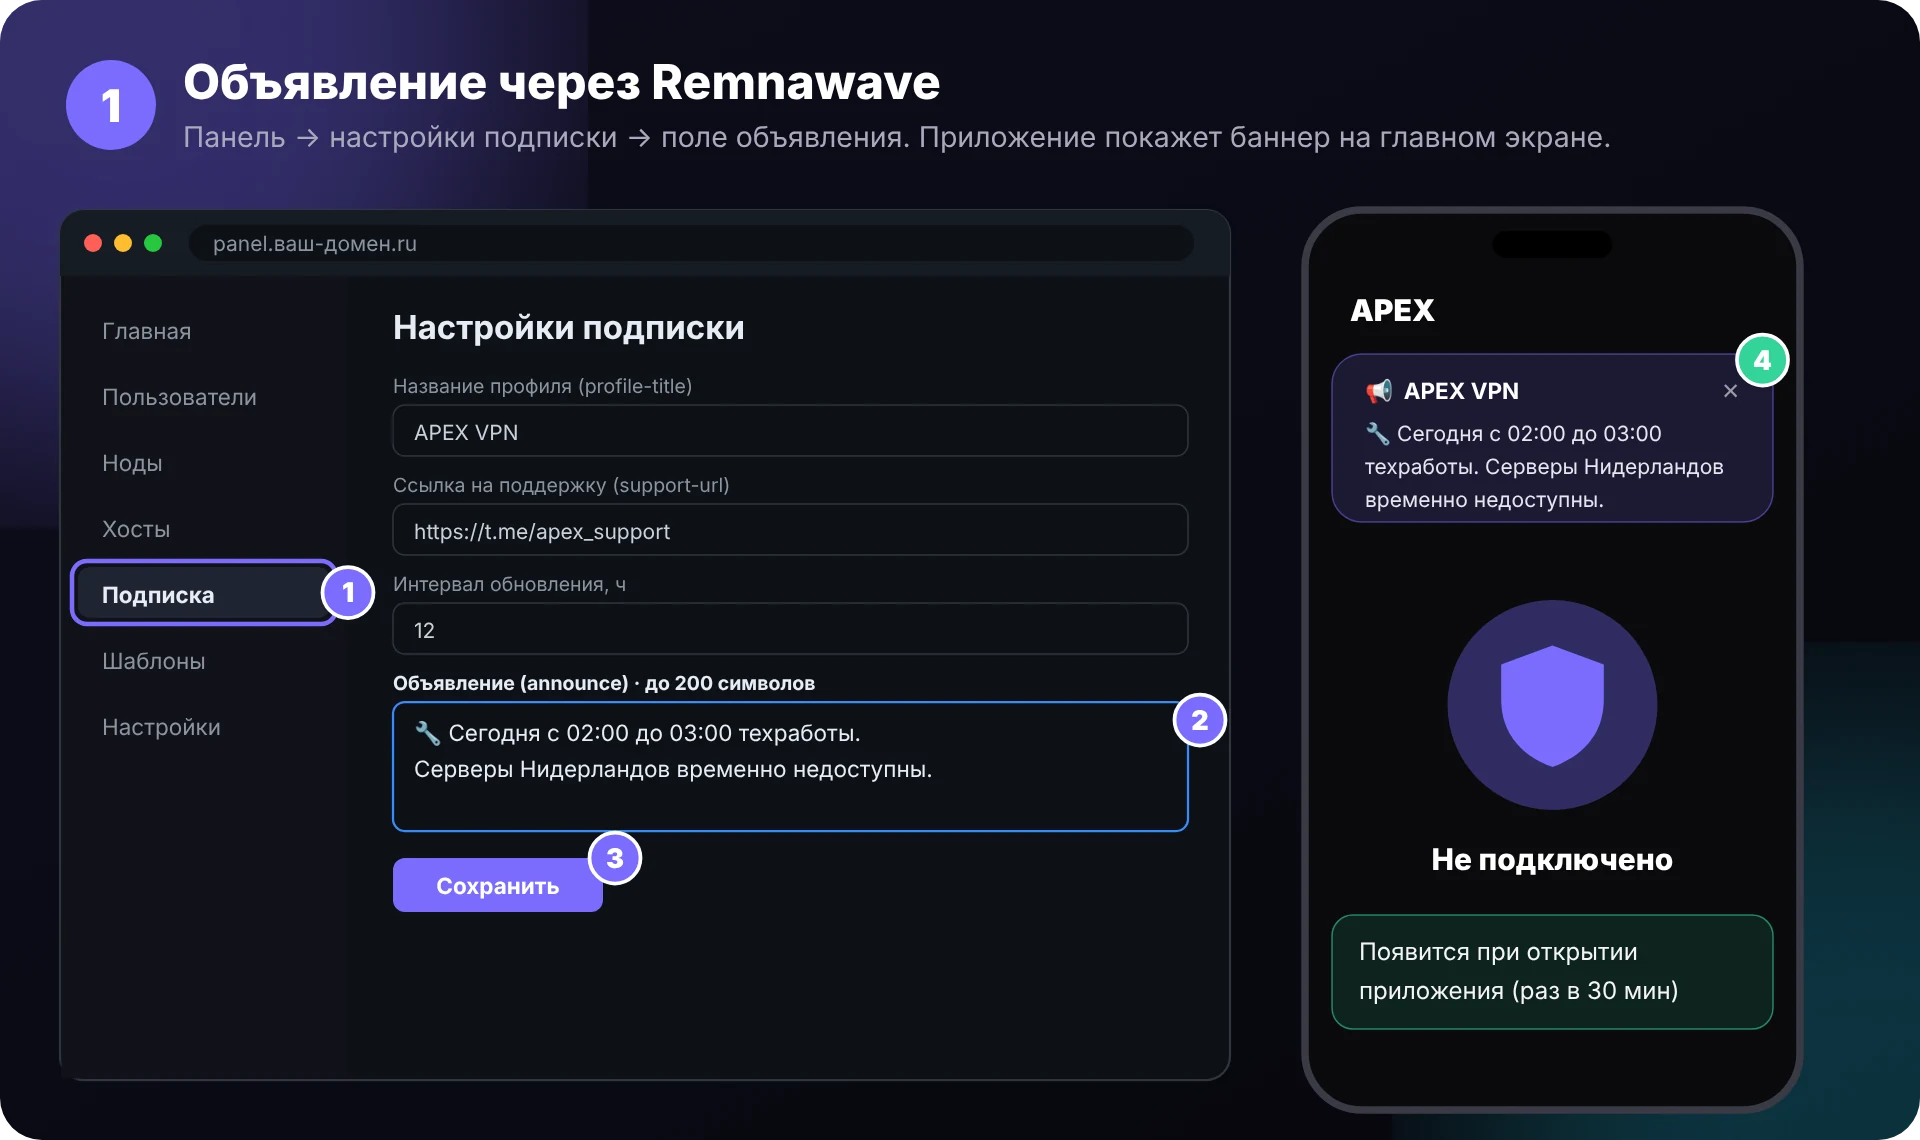
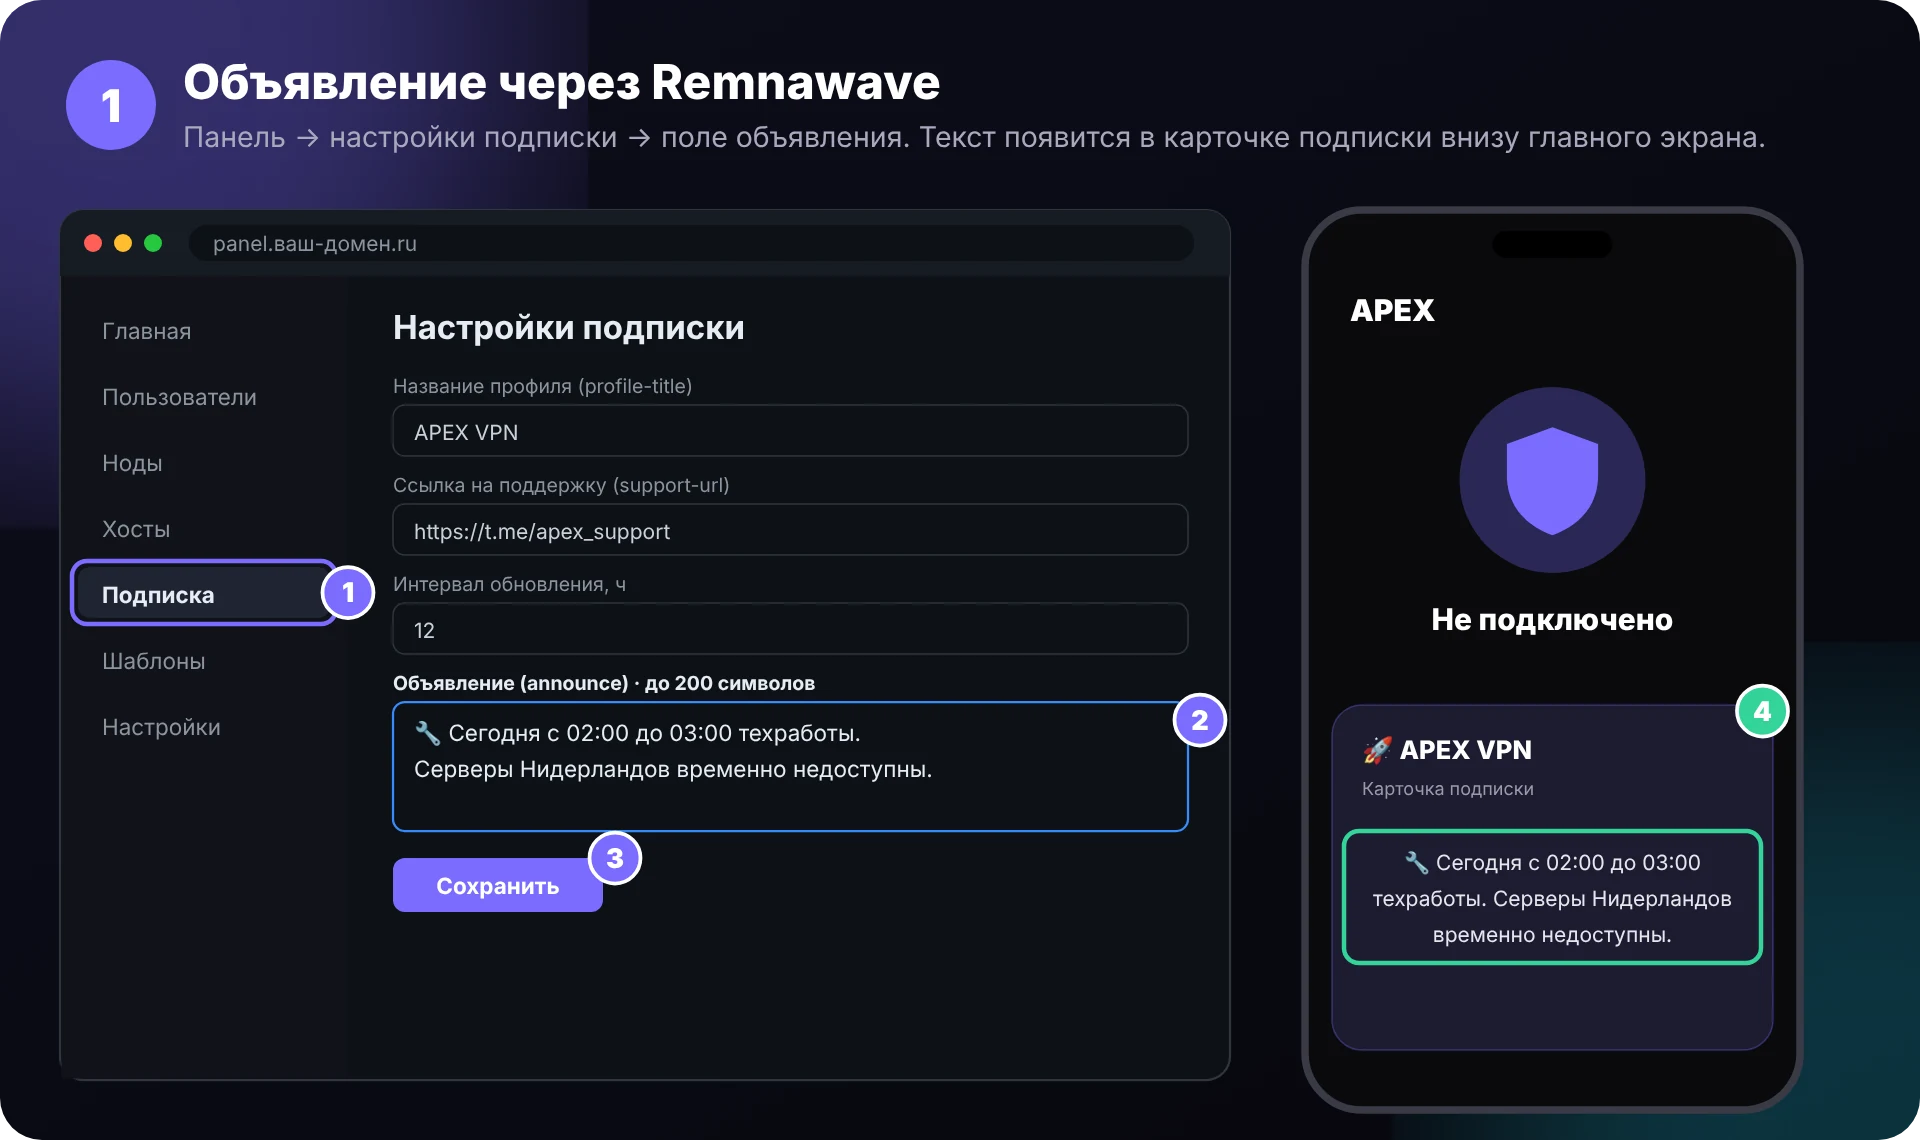
1.8.1: объявление из Remnawave снова в карточке подписки внизу
Claude-Session: https://claude.ai/code/session_01WchbezWYjwEwUD5w8vECWt

Changed region(s): [[0.6875, 0.2763, 0.9375, 0.9211], [0.4688, 0.0921, 0.9062, 0.1535]]

diff --git a/app/src/main/java/com/apexvpn/client/ui/HomeScreen.kt b/app/src/main/java/com/apexvpn/client/ui/HomeScreen.kt
@@ -132,22 +132,6 @@ fun HomeScreen(
             StatusPill(status)
         }
 
-        // Объявление из Remnawave (заголовок announce) — баннером наверху, закрывается до нового текста
-        var closedAnnounce by remember { mutableStateOf(com.apexvpn.client.data.Prefs.dismissedAnnounce) }
-        if (sub.announce.isNotBlank() && sub.announce != closedAnnounce) {
-            Spacer(Modifier.height(14.dp))
-            Banner(
-                icon = Icons.Rounded.Campaign,
-                color = Apex.Accent,
-                title = sub.title.ifBlank { null },
-                text = sub.announce,
-                onClick = null,
-                onClose = {
-                    com.apexvpn.client.data.Prefs.dismissedAnnounce = sub.announce
-                    closedAnnounce = sub.announce
-                },
-            )
-        }
         // 13. Подписка заканчивается
         ExpiryAlerts.warning(sub)?.let { w ->
             Spacer(Modifier.height(10.dp))
@@ -586,6 +570,19 @@ private fun SubscriptionCard(
         expire?.let {
             Spacer(Modifier.height(6.dp))
             Text(it, color = Apex.TextDim, fontSize = 13.sp)
+        }
+
+        // Объявление от сервиса (заголовок announce из Remnawave)
+        if (sub.announce.isNotBlank()) {
+            Spacer(Modifier.height(12.dp))
+            Text(
+                sub.announce,
+                color = Apex.Text,
+                fontSize = 15.sp,
+                lineHeight = 22.sp,
+                textAlign = TextAlign.Center,
+                modifier = Modifier.fillMaxWidth(),
+            )
         }
 
     }

diff --git a/app/src/main/java/com/apexvpn/client/data/Changelog.kt b/app/src/main/java/com/apexvpn/client/data/Changelog.kt
@@ -6,6 +6,12 @@ data class Release(val version: String, val code: Int, val date: String, val cha
 object Changelog {
     val releases = listOf(
         Release(
+            "1.8.1", 22, "28 октября 2026",
+            listOf(
+                "Объявление из Remnawave снова внизу — в карточке подписки, как раньше",
+            ),
+        ),
+        Release(
             "1.8.0", 21, "28 октября 2026",
             listOf(
                 "Работает без своего сервера: обновления — с GitHub, объявления — из Remnawave",

diff --git a/README.md b/README.md
@@ -7,7 +7,7 @@
 <p>
 <a href="https://github.com/Dubstep2004/apex-vpn/releases/latest"><b>⬇ Скачать APK</b></a>
 &nbsp;&nbsp;·&nbsp;&nbsp;
-<a href="#-что-нового"><b>🆕 Что нового в 1.8.0</b></a>
+<a href="#-что-нового"><b>🆕 Что нового в 1.8.1</b></a>
 &nbsp;&nbsp;·&nbsp;&nbsp;
 <a href="#setup"><b>🚀 Как установить</b></a>
 </p>
@@ -144,7 +144,7 @@
 
 ### 📢 Объявления для пользователей
 
-Объявление появляется **баннером вверху главного экрана** приложения. Пользователь может закрыть его — новое объявление покажется снова.
+Объявление показывается **в карточке подписки внизу главного экрана** приложения.
 
 #### Через Remnawave
 
@@ -153,7 +153,7 @@
 1. Откройте панель Remnawave → **Подписка** (настройки подписки).
 2. Впишите текст в поле **объявления (announce)** — то же поле, что для Happ. До 200 символов, эмодзи можно.
 3. Нажмите **Сохранить**.
-4. Пользователи увидят баннер при следующем открытии приложения (подписка обновляется, если прошло больше 30 минут) или при обновлении подписки кнопкой ↻.
+4. Пользователи увидят текст при следующем открытии приложения (подписка обновляется, если прошло больше 30 минут) или при обновлении подписки кнопкой ↻.
 
 **Убрать объявление:** очистите поле или впишите `0`.
 
@@ -344,6 +344,9 @@ core/apexcore/          Go: разбор подписки → конфиги sin
 </details>
 
 ## 📝 Что нового
+
+**1.8.1**
+- Объявление из Remnawave снова внизу, в карточке подписки
 
 **1.8.0**
 - Без своего сервера: обновления — с GitHub, объявления — из Remnawave, сбои — в отчёте «Написать в поддержку»
